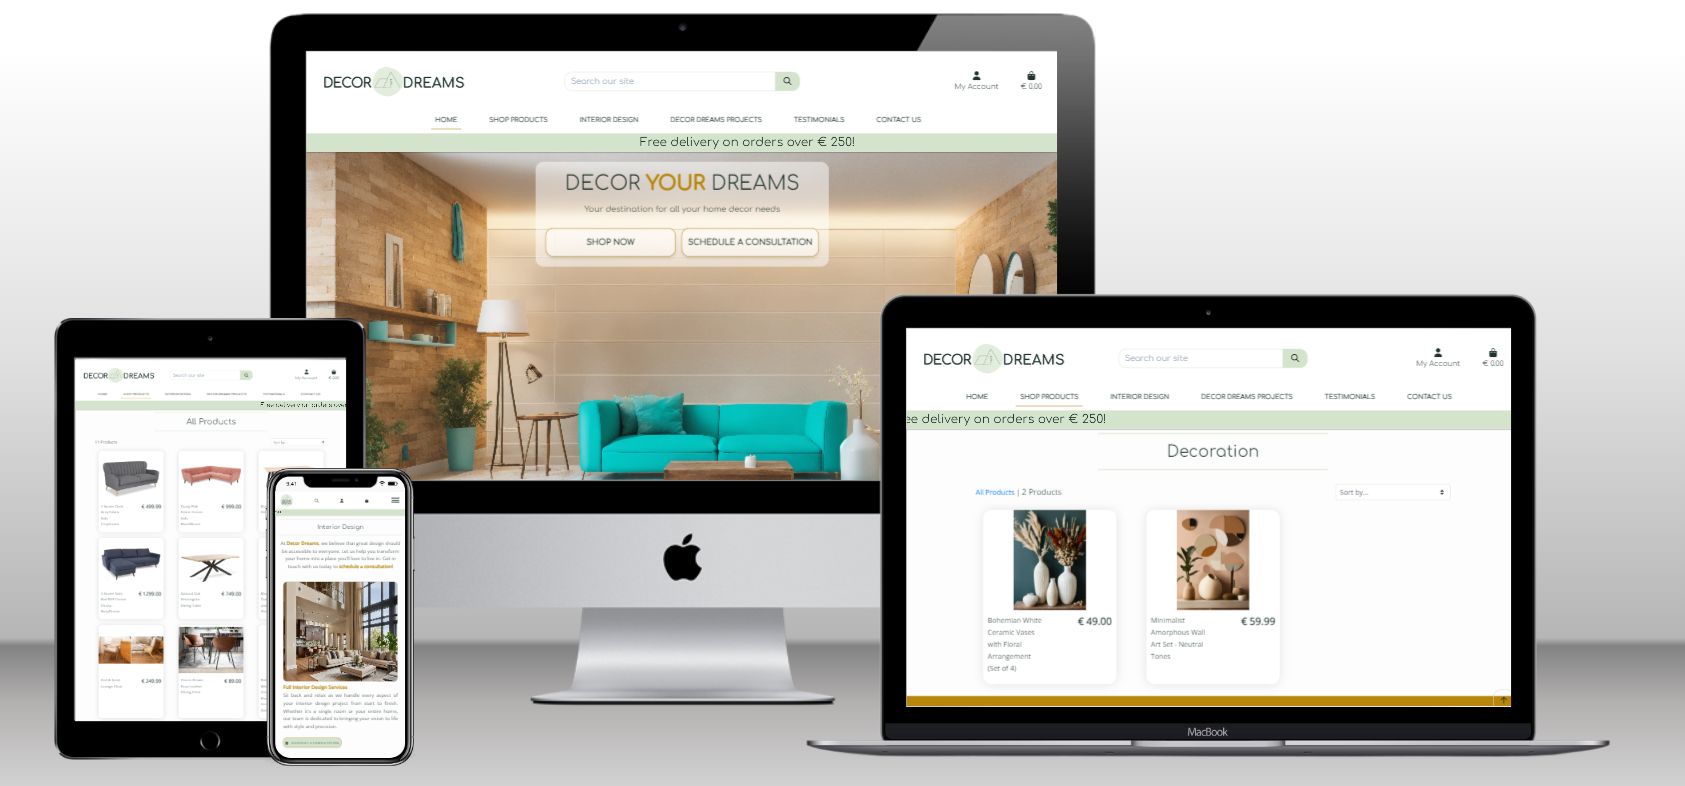
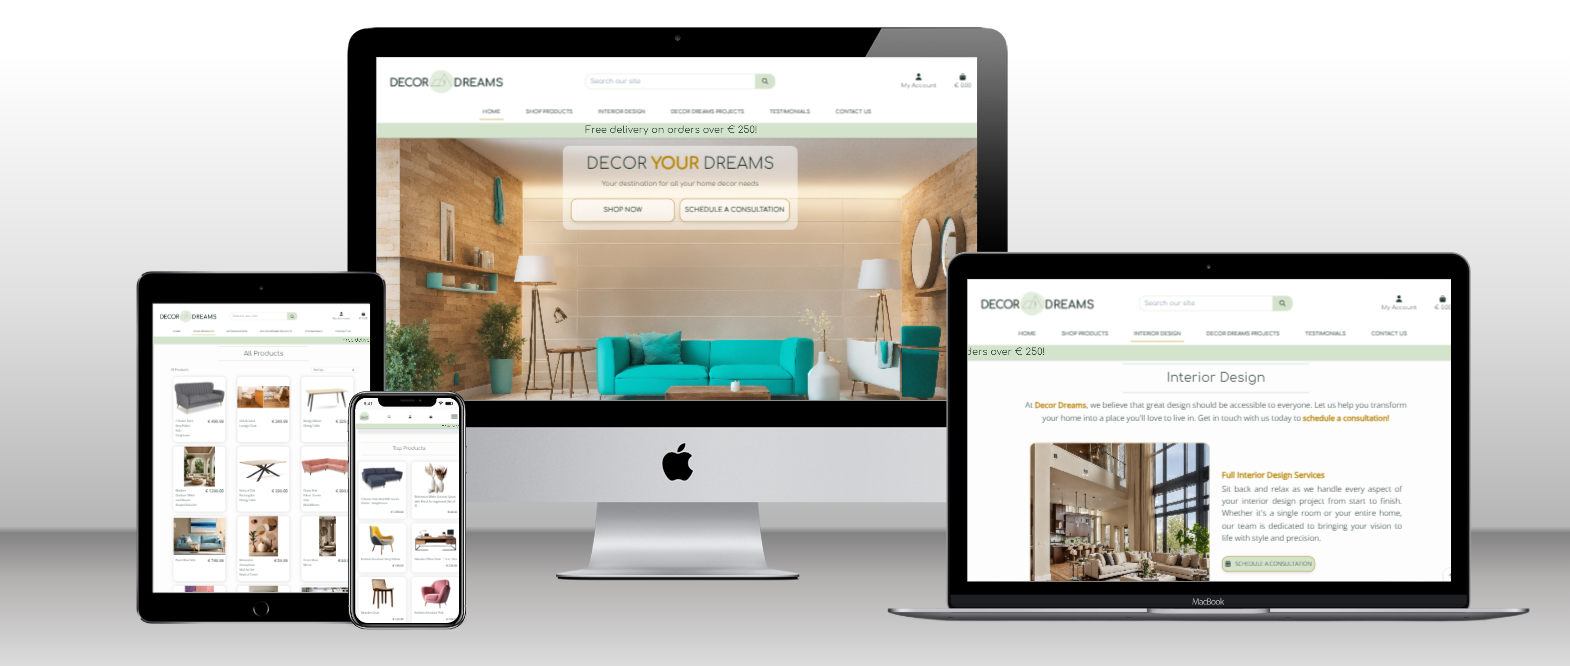
Added top products section to Readme

diff --git a/README.md b/README.md
@@ -558,6 +558,12 @@ The "Who we are" section offers a brief summary of the site's offerings, highlig
 
 ![Who we are](documentation/readme_images/features/who_we_are.png)
 
+**Top products section**
+
+The "Top Products" section showcases 6 selected products chosen by the site owner to draw the user's attention to the most sought-after items. Upon clicking on the card, the user will be redirected to the product details page.
+
+![Top products](documentation/readme_images/features/top_products.png)
+
 ### User Account Pages
 
 - Django Allauth was installed and utilized to implement Sign Up, Log In, and Log Out functionalities. 
